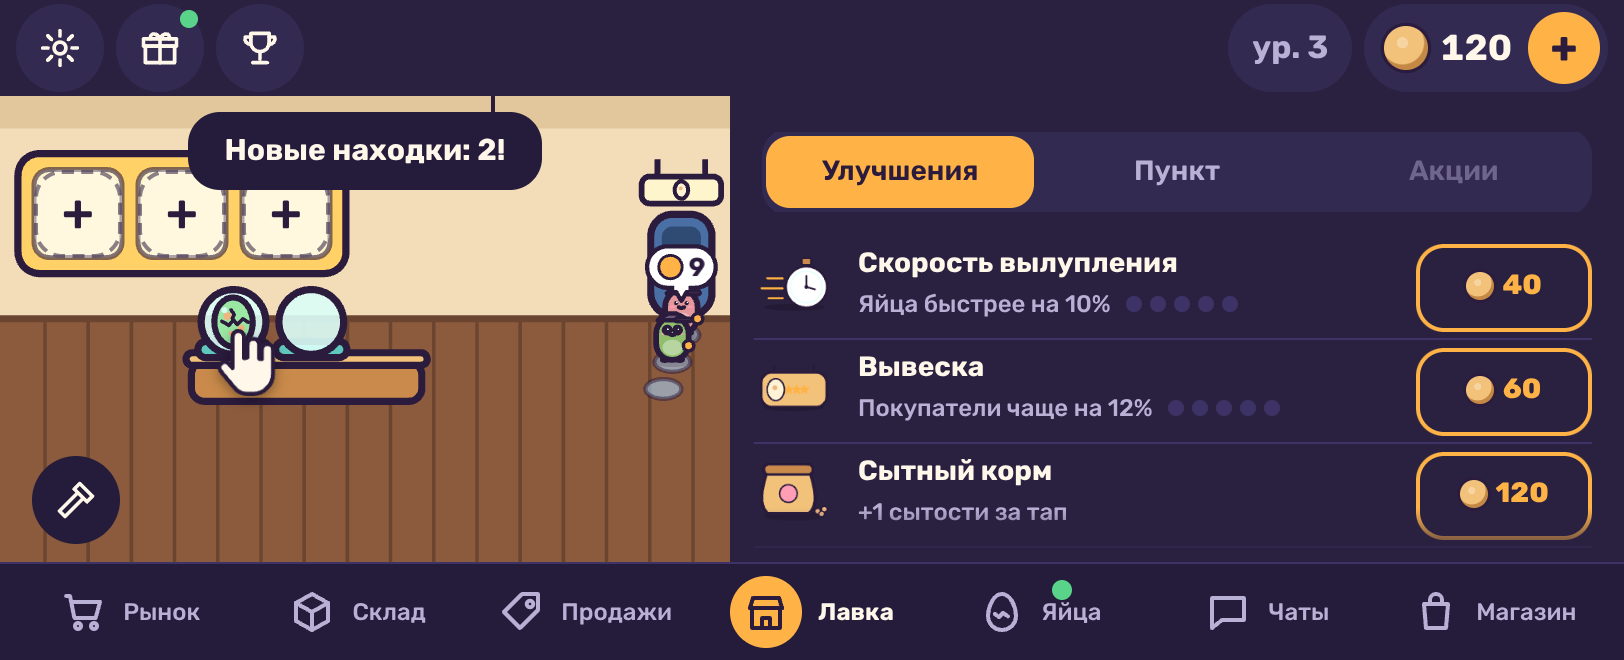
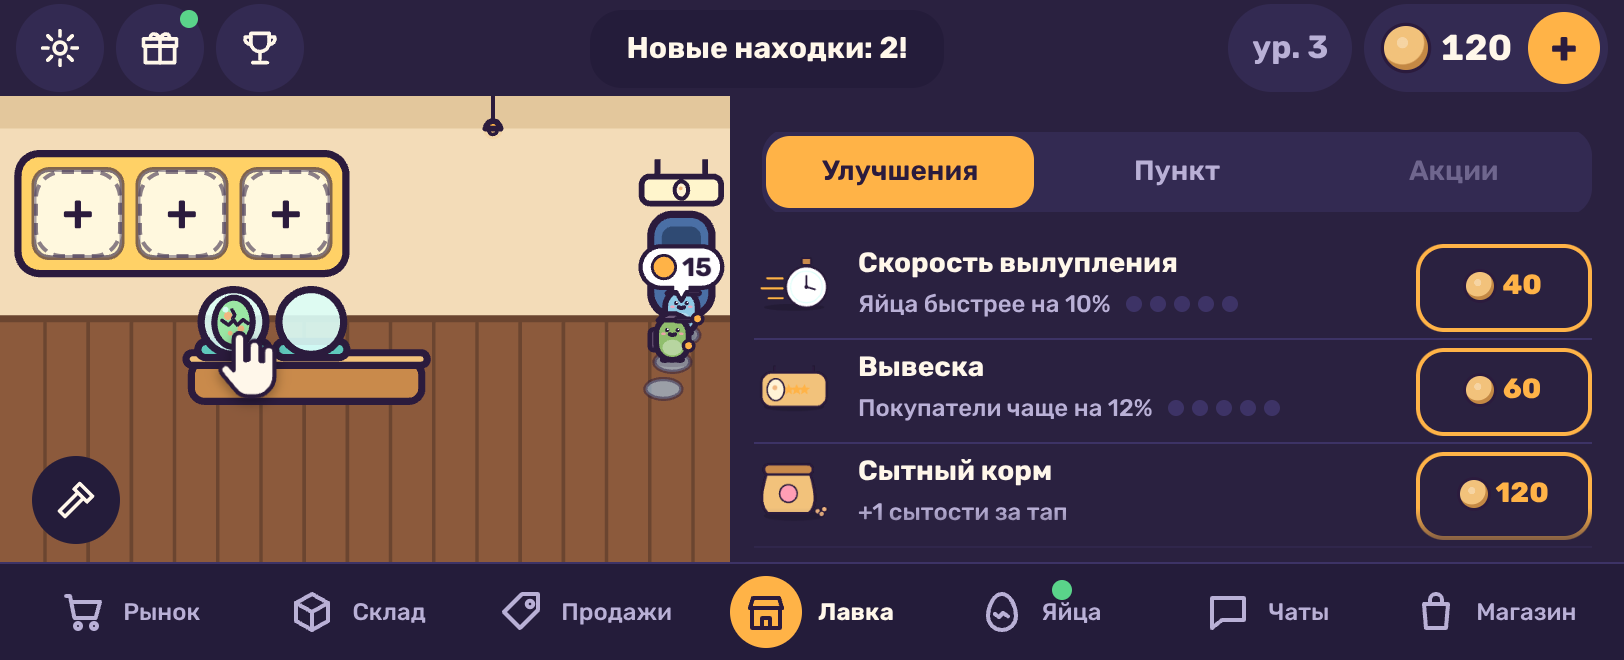
Круг правок FB-2, ревизоры: тост не ложится на полку в комнате (свободная середина шапки), отчёты арта и сверки с макетом, 07 и README макетов поправлены
Claude-Session: https://claude.ai/code/session_01Uv5yLXx9dk6Zwwdwi2eiZ1

diff --git a/src/ui/toast.ts b/src/ui/toast.ts
@@ -47,19 +47,30 @@ const meets = (a: DOMRect, top: number, bottom: number, r: DOMRect): boolean =>
 
 /** Moves the toasts' column off whatever of AVOID its toast would lie on (07 rule 17: under the bar, but not over a title): into the free
  *  middle of the bar when it fits there (sideways), else down past it. */
-function place(el: HTMLElement): void {
+function place(el: HTMLElement, extra: () => DOMRect[]): void {
   const root = el.parentElement;
   if (!root) return;
   root.style.removeProperty('transform');
   const box = el.getBoundingClientRect();
-  const avoid = (): DOMRect[] => [...document.querySelectorAll(AVOID)].map((e) => e.getBoundingClientRect());
+  const avoid = (): DOMRect[] => [...[...document.querySelectorAll(AVOID)].map((e) => e.getBoundingClientRect()), ...extra()];
   if (!avoid().some((r) => meets(box, box.top, box.bottom, r))) return;
   const hud = document.querySelector('.hud')?.getBoundingClientRect();
   if (hud && box.height <= hud.height) {
-    const top = hud.top + (hud.height - box.height) / 2;
-    const busy = [...document.querySelectorAll('.hud button')].some((e) => meets(box, top, top + box.height, e.getBoundingClientRect()));
-    if (!busy) {
-      root.style.transform = `translateY(${Math.round(top - box.top)}px)`;
+    // The widest free stretch of the bar between its buttons: the toast stands in its middle when it fits there.
+    const edges = [...document.querySelectorAll('.hud button')]
+      .map((e) => e.getBoundingClientRect())
+      .filter((r) => r.width > 0)
+      .sort((a, b) => a.left - b.left);
+    let from = hud.left;
+    let best = { left: 0, width: 0 };
+    for (const r of [...edges, new DOMRect(hud.right, hud.top, 0, hud.height)]) {
+      if (r.left - from > best.width) best = { left: from, width: r.left - from };
+      from = Math.max(from, r.right);
+    }
+    if (best.width >= box.width + 16) {
+      const top = hud.top + (hud.height - box.height) / 2;
+      const left = best.left + (best.width - box.width) / 2;
+      root.style.transform = `translate(${Math.round(left - box.left)}px, ${Math.round(top - box.top)}px)`;
       return;
     }
   }
@@ -74,7 +85,8 @@ function place(el: HTMLElement): void {
   if (shift > 0) root.style.transform = `translateY(${Math.round(shift)}px)`;
 }
 
-export function createToasts(parent: HTMLElement): Toasts {
+/** extra — rects of the scene a toast never covers either (the shelf frame drawn in the canvas: круг правок FB-2, арт-ревизия). */
+export function createToasts(parent: HTMLElement, extra: () => DOMRect[] = () => []): Toasts {
   const root = document.createElement('div');
   root.className = 'toasts';
   root.setAttribute('aria-live', 'polite');
@@ -101,9 +113,9 @@ export function createToasts(parent: HTMLElement): Toasts {
     el.dataset.text = item.text;
     root.appendChild(el);
     current = el;
-    place(el);
+    place(el, extra);
     // A screen that opens under a toast already shown (a lot, a hint) moves it too.
-    const follow = window.setInterval(() => (current === el ? place(el) : window.clearInterval(follow)), 250);
+    const follow = window.setInterval(() => (current === el ? place(el, extra) : window.clearInterval(follow)), 250);
     // The round of fixes (the usability review): a toast never moves the screen under a finger — it lies over the top
     // of the screen for a moment and lets every tap through (pointer-events: none), 07 rule 17.
     window.setTimeout(() => {

diff --git a/src/main.ts b/src/main.ts
@@ -651,7 +651,15 @@ async function boot(): Promise<void> {
   };
   syncDay();
   window.setInterval(syncDay, 60_000);
-  const toasts = createToasts(uiRoot);
+  // Круг правок FB-2 (арт-ревизия): on «Лавка» a toast never lies on the shelf frame drawn in the scene (its places, 12 px around).
+  const toasts = createToasts(uiRoot, () => {
+    const slots = nav.active() === 'home' ? (shop.anchors()?.slots ?? []) : [];
+    if (!slots.length) return [];
+    const c = canvas.getBoundingClientRect();
+    const x = Math.min(...slots.map((r) => r.x)) - 12 + c.left;
+    const y = Math.min(...slots.map((r) => r.y)) - 12 + c.top;
+    return [new DOMRect(x, y, Math.max(...slots.map((r) => r.x + r.w)) + 12 + c.left - x, Math.max(...slots.map((r) => r.y + r.h)) + 12 + c.top - y)];
+  });
   const merchantWindow = createMerchantWindow(uiRoot, play, {
     t: i18n.t,
     lang: i18n.lang,

diff --git a/docs/evidence/FB/fixes2-art.md b/docs/evidence/FB/fixes2-art.md
@@ -1,0 +1,62 @@
+# FB, круг правок 2: арт-ревизия (19.10)
+
+Кадры `screens/` (×2), `screens/130/` (×1), салют `salute-{vip,exclusive}-{0,150,300}ms.{p,l}`, ПК `home.pc` (1280×720); макеты s6, r1, s7; замеры PIL. Координаты — CSS px (x0–x1, y0–y1). Кроп к «2» — `art-fixes2/`.
+
+| # | Пункт | Балл | Почему |
+|---|---|---|---|
+| 1 | Цельность стиля | 3 | Строка улучшения одна и та же в «Лавке», «Магазине», боком и на ПК: 68 px, боком 52, цена-обводка. Но полка — всё тот же жёлтый лоток `#ffd166`, по цвету почти как VIP `#ffd84d`. Золото VIP в салюте выходит грязным хаки: средний цвет карточки `#a0895e` (насыщенность 0,26) на 0 мс и `#6e584d` (0,18) на 300 мс. Причина: `screen` жёлтым по фиолетовому `#241c3a` даёт серое. У эксклюзива та же схема даёт чистый малиновый (0,38 → 0,29) |
+| 2 | Иерархия | 4 | При полной витрине главная — «На склад» (full-shelf-result.p 36–339, 419–465; .l 411–684, 223–269). «Продать сразу» стоит тихой строкой. Мелочи. Цена не по карману `#b9b0d6` даёт 7,4:1, по карману `#ffb347` — 8,5:1: разница только в оттенке и обводке, «нельзя» почти так же громко, как «можно» (shop.p 292–338, 345–372). Лот боком: питомец — плитка 40 px (lot.l 356–396, 50–90), а это товар; главная 397–754 уже ответов 356–796 (так по правилу 360 px, но ряд выглядит невыровненным) |
+| 3 | Типографика | 3 | Число после монеты в мете лота на 5 px выше слов: «19» по высоте 158–166, «ниже рынка» 163–171 (lot.p 190–203); «23» 75–83 против 80–88 (lot.l). У «VIP» с обводкой 5 px под «V» торчит острый шип (салют, .p ≈179–181, 287–292): `-webkit-text-stroke` рисует углы острыми. При 130 % у «Улучшения» поля 7 и 3 px внутри плашки (130/shop.p 20–128, 76–92). «12%» по-прежнему висит один на строке (130/shop.p 68–100, 255–268) |
+| 4 | Иконки | 3 | Прошлые «2» сделаны: секундомер, залитые точки, монета в наградах. По правилу «84 % от 40 px» (≈34 px по большей стороне) выпадает «Колокольчик»: 22×23 (shop.p 24–47, 349–372). Плоские значки остаются тонкими полосками: «Коврик» 32×10 (20–52, 420–430), «Вывеска» 32×16. По площади рисунка значки отличаются вдвое: 311 против 632 px². Точки уровня «0 из 5» — `#3d3366` на `#2a2140`, 1,34:1, почти не видны (home.p 68–124, 404–413). В «Пункте» один и тот же ящик у «Аренды пункта» (point.p 20–52, 244–270) и «Второй точки» (20–52, 516–542). Овал на вывеске двери до сих пор читается как «0» |
+| 5 | Редкость | 4 | Слово редкости проходит на всех кадрах: заливка к своей обводке 2,5 px даёт 11,4:1 у VIP и 5,17:1 у эксклюзива (таблица ниже). Вспышка лежит под словами, тёмной плашки под кнопками нет. «Чем круче, тем ярче» выполнено: эксклюзив на каждом кадре светлее и насыщеннее VIP (0,52 против 0,50 по светлоте, 0,38 против 0,26 по насыщенности) и дольше (1 с против 0,8 с). Минус: конфетти экрана летит поверх слов. salute-exclusive-0ms.p 130–250, 270–330 — точки на «ЭКСКЛЮЗИВ» и «Луна-пончик»; .l 355–480, 75–200 — на имени, цене и «Продать сразу». Минус: VIP-хаки (п. 1) |
+| 6 | Окна | 3 | Питомец в «Вылупился!» на месте: 58–73 % высоты плитки (hatch.p 58 %, hatch-vip.p 73 %, hatch.l 54 %, full-shelf-result.p 59 %). «Продать сразу» боком под ценой (hatch.l 280–456, 170–188), в 24 px над кнопками. Но боком у карточки снизу 4 px поля при 20 px по бокам: кнопки до 268,5, рамка с 273 (hatch-vip.l). При 130 % рамка кончается в 3 px над полосой вкладок (130/hatch-vip.l: рамка 276–278, полоса с 281). Портрет: от «На склад» (низ 464,5) до текста «Продать сразу» (505,5) 41 px. Строка оторвана от кнопок и прижата к низу карточки (в s6 тихая строка ближе). На кадре 0 мс кнопки ещё заблокированы (`opacity .5`) и тонут во вспышке: «На витрину» к карточке 1,17:1, подпись 2,17:1 (salute-vip-0ms.p 36–339, 365–411); «Продать сразу» боком 1,03:1 (salute-vip-0ms.l 280–468, 172–186). К 150 мс всё в норме |
+| 7 | Сцена «Лавки» | **2** | Боком тост лежит на полке, и это с прошлой ревизии. «Новые находки: 2!» (toast.l 94–271, 56–95) закрывает верх рамки и мест 2–3 (рамка 7–175, 76–138, перекрытие 19 px). «Витрина полна, питомец на складе» (full-shelf.l 30–335, 56–95) закрывает макушки всех трёх питомцев — ровно ту витрину, о которой говорит. Портретом тост кончается на 95, рамка полки начинается на 96: зазор 0 px (toast.p). Полка — по-прежнему лоток `#ffd166` |
+
+Средний балл: **3,1** (было 2,7). Прошлые «2» по иконкам и окнам исправлены. Из прошлой «2» по сцене исправлены полка на инкубаторах (боком зазор 4,5 px, home.l 115–165, 138,5–143; был 0) и подсказка на «+» (hint.p: пузырь 83–207, рамка полки до 73). Тост над полкой боком остался.
+
+## Салют: контраст слова редкости (заливка, обводка, фон рядом)
+
+| Кадр | Заливка / обводка | Обводка / вспышка | Заливка / вспышка (без обводки) |
+|---|---|---|---|
+| VIP 0 мс, портрет / боком | 11,4 / 11,4 | 8,7 / 7,1 | 1,3 / 1,6 |
+| VIP 150 мс | 11,4 / 11,4 | 5,0 / 4,3 | 2,3 / 2,7 |
+| VIP 300 мс | 11,4 / 11,4 | 2,8 / 2,6 | 4,0 / 4,5 |
+| Эксклюзив 0 мс | 5,17 / 5,17 | 6,2 / 5,1 | 1,2 / 1,0 |
+| Эксклюзив 150 мс | 5,17 / 5,17 | 4,3 / 3,6 | 1,2 / 1,5 |
+| Эксклюзив 300 мс | 5,17 / 5,17 | 3,0 / 2,4 | 1,8 / 2,1 |
+| После салюта (hatch-vip.p / hatch-exclusive.p) | 11,7 / 5,25 | — | 11,7 / 5,27 |
+
+Буквы читаются по своей обводке, она сплошная, ≥ 2,5 px: ≥ 4,5:1 на 0, 150 и 300 мс в обеих ориентациях. Без обводки слово на пике вспышки не читалось бы (1,0–1,3:1), так что обводку не убирать.
+
+## «2»: сцена «Лавки» — тост на полке боком
+- **Где.** toast.l: тост 94–271 × 56–95, рамка полки 7–175 × 76–138. Тост закрывает верхнюю кромку и верх мест 2–3. full-shelf.l: тост 30–335 × 56–95 закрывает макушки питомцев (уши кота, усики пчелы) и вывеску над дверью. При этом свободна середина шапки: между кнопками слева (до 152) и «ур. 3» справа (с 614) 462 px, а самый длинный тост — 305 px. Портретом зазор тоста и полки 0 px (toast.p, тост до 95, рамка с 96).
+- **Почему не сработала правка п. 6.** `src/ui/toast.ts`, `AVOID` перечисляет только DOM («‹», подсказку). Полка рисуется в PixiJS, её в списке нет, поэтому `place()` не видит перекрытия.
+- **Как исправить.**
+  - В `src/ui/toast.ts` передать в `createToasts` геттер `anchors` (как `deps.anchors()` в `src/ui/hints.ts:84`). В `place()` добавить к `avoid()` рамку полки, по образцу `hints.ts:206–212`: места `a.slots` + 12 px, со сдвигом `canvas.left/top`. Дальше всё сделает уже существующая ветка: тост, который встречает препятствие, встаёт в свободную середину шапки (`hud.top + (hud.height − box.height)/2`, если там нет кнопок). Боком так и выйдет: 39 px тоста помещаются в 48 px шапки.
+  - Портретом середина шапки занята («ур. 3»). Там достаточно, чтобы ветка «вниз» не срабатывала на 1 px. Либо поднять тост: `.portrait .toasts { top: calc(var(--hud-height, 48px) + 4px) }` даёт 4 px до рамки.
+  - Быстрая замена только CSS, хуже: `.landscape #ui:has(> .sheet[data-sheet='home']:not([hidden])) > .toasts { top: calc(var(--safe-top, 0px) + 4px); left: 160px; width: calc(100% - 366px); }` в `src/ui/mu.css`, после правила MU-12 (стр. 2282). Здесь числа зашиты по кнопкам шапки, поэтому лучше вариант на JS.
+- **Попутно** (данные, не `src`): полку перекрасить в дерево. `content/style.json` `colors.showcase` `#ffd166` → `#a86b45`, `showcaseSlot` `#fff5cc` → `#fff3d6`. Так уйдёт и путаница с VIP `#ffd84d`, которую салют VIP только подчёркивает.
+- Кроп: `art-fixes2/scene-toast-over-shelf.png` (home.l без тоста, toast.l, full-shelf.l; красная рамка — перекрытие).
+
+## «3»: что поправить следом (по пунктам)
+- **Цельность / редкость, VIP-хаки.** `src/ui/mu.css`, `.card.hatch-rare[data-rarity='vip']::before { mix-blend-mode: normal; }`: при пике 0,8 выйдет ≈ `#d3b24a`, горчично-золотой, а не `#a0895e`. Края градиента — `transparent`, а не `--rc 35 %`. Слова лежат выше (z 1), пелены не будет.
+- **Редкость, конфетти на словах.** `.burst` экрана опустить под окна, как вспышку: `#ui .burst { z-index: 29 }`. Своё конфетти у карточки уже есть в плитке питомца (salute-vip-0ms.p 124–252, 141–253) — его хватит.
+- **Типографика, монета в мете.** `.mu-money` — `inline-flex` с `align-items: center`, и базовая линия считается по низу монеты. Правка: `.mu-meta .mu-money { vertical-align: middle; }` или `.mu-money { align-items: baseline } .mu-money > .coin { align-self: center }`. Проверить «рынок ◉ N» в лоте, «цена ◉ N» в «Вылупился!».
+- **Типографика, шип у «VIP».** Вместо `-webkit-text-stroke: 5px` у `.card.hatch-rare .rar-word` — восемь `text-shadow` по 2,5 px, круглые углы. Либо `-webkit-text-stroke: 4px` и `letter-spacing: .04em`.
+- **Иконки.** В `src/scene/icons.ts` вписать колокольчик в 34 px по высоте. «Коврику» и «Вывеске» дать вид в ¾: коврик свёрнутым рулоном, вывеску на подвесе, чтобы высота была ≥ 22 px. Пустые точки уровня — `color-mix(in srgb, var(--c-uiMuted) 35%, transparent)`, ≈ 2:1. «Второй точке» дать свою картинку: два домика или ящик с флажком.
+- **Окна.** Боком у «Вылупился!» снизу ≥ 12 px поля: `.landscape #ui .overlay > .card.card-hatch { padding-bottom: 12px }`. Место взять у ряда «Продать сразу» (`min-height` 40 → 36) и у `margin-top` кнопок (24 → 20, правило 2 допускает ≥ 16 у нетревожной строки), иначе при 130 % не влезет. Портрет: `margin-top` у `.hatch-sell` 24 → 12, видимый зазор станет ≈ 29 px.
+- **Иерархия.** Цена не по карману — `color-mix(in srgb, var(--c-uiMuted) 70%, var(--c-uiBg))`, ≈ 4,6:1. Тогда «можно» (8,5:1, обводка) сразу отличается от «нельзя». Лот боком: `.landscape [data-detail='lot'] .lot-pet .mu-pic` — 56 px, картинка 48.
+- **ПК.** Строки улучшений тянутся на 680 px, и между текстом (до ≈880) и ценой (1176–1264) пусто 300 px (home.pc). Тут нужно `max-width: 560px` у списка или цена ближе к тексту.
+
+## Что исправлено с прошлой ревизии
+- Лот боком: реплики слева целиком, питомец справа сверху над ответами, «Заберу сейчас» целиком при 100 % и 130 %. Лот портретом при 130 %: приветствие и «Отдам за 341» целиком, ответы над полосой с запасом 16 px.
+- Салют: вспышка под словами, без тёмной подложки кнопок, слово ступени в обводке (≥ 4,5:1 на всех трёх кадрах), эксклюзив ярче и дольше VIP.
+- «Продать сразу»: портретом — тихая строка под «На склад», боком — под ценой, не в углу ✕. При полной витрине главная — «На склад».
+- Низ «Лавки» и «Магазина»: цена по карману — акцент 8,5:1 к фону `#2a2140`; строки 68 px (боком 52) с точками и без; значки 32–33 px по ширине. Исключение — колокольчик.
+- «Окно офлайна» боком, секундомер, монеты в наградах, вспышка под текстом, подсказка правее полки, полка не лежит на инкубаторах — из прошлых «2».
+- Не исправлено: тост на полке боком, полка-лоток ≈ VIP, «0» на двери, «12%» на своей строке при 130 %.
+
+## 3 правки по важности
+1. **Тост не ложится на полку.** Рамку полки добавить в `AVOID` тоста (`src/ui/toast.ts`); боком тост уйдёт в свободную середину шапки.
+2. **Салют VIP — золото, а не хаки, и конфетти не по словам.** `mix-blend-mode: normal` у вспышки VIP, `#ui .burst { z-index: 29 }`.
+3. **Мелкая типографика и значки.** Число после монеты на одной линии со словами (`.mu-meta .mu-money`). Колокольчик в 34 px, «Коврик» и «Вывеска» не полосками. Точки уровня видимые (≈ 2:1). Полку перекрасить в дерево (`content/style.json`).

diff --git a/docs/evidence/FB/mockup-check-2.md b/docs/evidence/FB/mockup-check-2.md
@@ -1,0 +1,75 @@
+# Сверка с макетом — FB, круг правок 2 (19.10)
+
+Метод тот же, что в `mockup-check.md`. Кадры `screens/*.png` (×2) и `screens/130/*.png` (×1) приведены к CSS px и сложены с `docs/mockups/*.png` (портрет ×1,6, альбом ×0,888). Края элементов найдены сканом пикселей PIL. Числа даны как «сборка / макет» в CSS px, % — доля высоты экрана (650 или 330). Допуск: ±5 % по положению, ±2 px по размерам кнопок. Отходы, записанные в 07 («Сверка с макетами», «Раскладка «Лавки»», «Вылупление», правило 17), помечены «по 07». Кадры сняты на `4b77d95`. `price.p`, `sales.p`, `collection.p` и `egg-card` при пересъёмке не изменились (байты те же), поэтому их числа совпадают с прошлым отчётом.
+
+## 1. Пары
+| Экран | Итог | Что с числами | Важность |
+|---|---|---|---|
+| hatch-vip.p ↔ s6-hatch-result | совп. | «На витрину» 365–411 / 365–409, «На склад» 421–465 / 420–464, «Продать сразу» тихой строкой 504–519 / 503–518 (до «На склад» 24 px по тап-зоне, как в s6). Ширина кнопок 303 / 303. Окно 75–553 / 100–550 (верх −3,8 %). Плитка 128×110 / 128×≈100. Питомец 84 px из 110 (76 %) / 66 из 102 (65 %) — по 07 | — |
+| hatch-exclusive.p ↔ r1-hatch-exclusive | совп. | те же края (365–411, 421–465, 504–519), рамка и свечение как в макете; питомец 78 из 112 (70 %) | — |
+| hatch.p ↔ r2-hatch-common | совп. | кнопки 305 / 307 (±2), 364–410, 420–464, 503–518; ободок 1 px, серое слово; питомец 66 из 112 (59 %) | — |
+| full-shelf-result.p ↔ s6 (состояние) | по 07 | при полной витрине главная — «На склад» (419–465), «На витрину» тёмная (365–409) | — |
+| hatch\*.l, full-shelf-result.l (макета нет) | по 07 | «список + деталь»: плитка 132×94–96, питомец 57–70 px (61–74 %). «Продать сразу» под ценой (текст 170–186), а не в углу ✕. Кнопки 222–268, от тап-зоны строки до них 22 px (в 07 сказано 24, разница в пределах ±2). При 130 %: текст 170–195, кнопки 226–272, окно целиком помещается в 330 | — |
+| home.p ↔ s1-shop-scene | по 07 | комната 48–287, кнопка-цена 88×44 (371–415, 439–483, 507–551). Строки ровно по 68 px (линии 426, 494, 562), с точками и без. Иконки 31–32 px по контуру (84 % от 40 = 33,6) | — |
+| home.l ↔ l1-home-landscape | по 07 | комната 0–365 (45 %), кнопки-цены 122–166, 174–218, 226–270 — шаг 52, как в 07 | — |
+| home.pc (ПК 1280×720) | по 07 | правая половина не пустая: под улучшениями «Мои яйца» и яйца строками, строки по 52 | — |
+| shop.p ↔ s7-shop | расх. | строки 68 (линии 325, 393, 461, 529), цена-кнопка 88×44 есть только у доступных строк, и это по 07. Но последняя строка «Витрина» (530–598) уходит под полосу всего на 4 px, а `peek` прячет её имя целиком, хотя оно (539–556) видно полностью. На первом экране «Магазина» получается строка из одной иконки. То же при 130 % | заметно |
+| eggs.p ↔ s1-eggs-list | совп. | главная 219–265 / 224–268, 2-й ряд ≈318 / 314 | — |
+| chats.p ↔ s2-chat-list | совп. | строки 60 (84–144, 154–214) | — |
+| chat.p ↔ s2-chat-dialog | расх. | «Продать за» 434–480 / 429–474, «Отказаться» 490–534 / 483–526 — в допуске. Не исправлено с прошлого круга: аватар 44 / 36, чип цены шире | мелочь |
+| sales.p ↔ s3-sales-slots | совп. | без изменений | — |
+| sales-chat.p ↔ s3 (в переписке) | расх. | «В чат» теперь на первом экране: раздел «В переписке» сверху, карточки 90–278, главная 229–275. Прошлое «заметно» снято. В s3 этот питомец стоит в сетке мест (297–496), а отдельный раздел в 07 не записан | мелочь |
+| price.p ↔ s3-price | расх. | кадр не менялся: подписи зон 309 / 268 (+6,3 %), подсказка 334 / 296 (+5,9 %), ручка 276 / 247 (+4,5 %) | заметно |
+| inventory.p ↔ s4-inventory | совп. | карточки 126–336 / 121–325, 2-й ряд 357 / 348 (+1,4 %) | — |
+| finds.p ↔ s4-finds | расх. | карточка 158–326 / 144–292: выше на 20 px, низ +5,2 %. 2-й ряд 342 / 316 (+4 %). Зелёная заливка одна, у второй готовой находки «Забрать» зелёным текстом — по 07 | мелочь |
+| market.p ↔ s8-market | совп. | 88–296, 316–543 / 92–294, 321–513: низ 2-го ряда +4,6 %, потому что двухстрочное имя | — |
+| gifts.p ↔ s5-gifts | расх. | «Забрать подарок дня» 400–444 / 394–438 (+1 %). Карточка «Аномалия дня» в рамке VIP 484–559 / 446–532 (низ +4,2 %). «Забрать яйцо» по-прежнему узкая и в две строки, в макете одна | мелочь |
+| pause.p ↔ s6-pause | расх. | без изменений: кнопки 301 / 308, лишний разделитель на 357, окно 170–456 / 202–447 | мелочь |
+| chat.l, chats.l ↔ l2-chat-landscape | расх. | строки списка 52 и ≈45 / 53 и 50 — совпадают. Кнопки 272 + 210 / 282 + 209: стало ближе (было 253), но «Продать за» на −10 px. Пузыри 117–150, 165–200 / 97–132, 140–175 — ниже на 20–25 px (6,1–7,6 %): шапка диалога по-прежнему в две строки («хочет: …») | заметно |
+| inventory.l ↔ l3-inventory-landscape | совп. | строки 2 колонки, сегменты 44 по правилу 4, без изменений | — |
+| inventory.p, pick.p ↔ r0-rarity-ladder | совп. | ступени рамок и свечений как в r0, ничего не срезано краем | — |
+| hint.p ↔ подсказка s1 | совп. | пузырь «Тапни яйцо» 72–180 × 108–140 стоит правее полки (рамка 9–63): перекрытия нет, при 130 % тоже. Прошлое «заметно» снято | — |
+| lot.p (макета нет) | по 07 | главная «Заберу сейчас» 16–359 × 368–414. При 130 % приветствие и «Отдам за 341» видны целиком, ответы 2 + 1 + 1 | — |
+| lot.l (макета нет) | по 07 | правая колонка 356–796 = 440, главная 396–756 = 360 и целиком (112–158), от шапки 64 px. При 130 % строка питомца в две строки, до главной 4 px; это не цель нажатия | — |
+| point.p / point.l (закрыт) | по 07 | строка «Здесь появится…», «Откроется с уровня 5», шаги пункта приглушены, цен нет. При 130 % тоже | — |
+| toast.p / toast.l | расх. | портрет: тост 60–92 под шапкой, до полки (100) свободно. Боком тост 57–94 (при 130 % 56–100) налезает на рамку полки 78–135 и верх мест «+» на 16–22 px. Правило 17 его не уводит: в `AVOID` есть только «‹» и подсказка. Это нарушает правило 3, хотя тост живёт 2 с и не ловит тапы | мелочь |
+| salute-vip/exclusive-0/150/300ms | расх. | вспышка под словами, слово ступени в обводке, у кнопок нет пелены, кнопки заблокированы на 0 мс — по 07. Но на 0 мс искры (canvas `.burst`, z 60, над окном) ложатся на «ЭКСКЛЮЗИВ», имя, а боком — на цену и «Продать сразу». На 150 мс боком искры идут по «На склад». В 07 сказано: вспышка под словами | мелочь |
+
+## 2. 130 %
+- Окно «Вылупился!» в портрете и боком, лот, «Пункт», «Лавка», «Магазин» целые, разрывов посреди слова нет.
+- away.l: прошлое «критично» снято. Окно в две колонки, «Отлично» видна целиком: 198–244 при 100 %, целая и при 130 %.
+- Пустые карточки второго ряда (inventory, market, collection, eggs, «Лавка», «Магазин») — не артефакт съёмки. Так задумано в FB-14 (`src/ui/peek.ts`): у карточки, которую режет низ экрана, видна только картинка. В 07 это не записано.
+- gifts.l: «Забрать подарок дня» при 100 % стоит на 216–260 (в затухание 6 px). При 130 % она на 236–≈280, и нижние ≈26 px в затухании над полосой (затухание с 254). Не исправлено — заметно.
+- gifts.p при 130 %: имя «Грибочек-зонтик» в «Аномалии дня» уходит под затухание. Список прокручивается, поэтому мелочь.
+- 130/home.pc не увеличен: шрифт тот же, что на 100 %. `scripts/mu-shots.mjs` (снимок ПК, ≈стр. 259) пропускает шаг 130 % из `shot()`. Это мелочь доказательств.
+
+## 3. 07 сам с собой и со сборкой
+- Карточка «Дальше»: противоречий нет. «Сверка» (портрет и альбом) и «Раскладка «Лавки»» обе говорят, что карточка есть только при выключенном `homeShop`. В сборке её нет.
+- Высота строки: в 07 одно значение — 68 px, боком 52. В CSS так же (`mu.css`, `.mu-card.shop-item` 68 / 52), в кадрах тоже (шаг 68 в портрете, 52 боком). Строки на ПК тоже по 52, но в 07 ПК не назван. Мелочь.
+- Место «Продать сразу»: «Раскладка» (под «На склад» в 24 px, боком под ценой), «Редкость» (обычный текст `#b9b0d6`) и сборка совпадают. Два расхождения:
+  - «Знаки» (стр. 10): «исключение — «Продать за N» в чате и окне вылупления». В окне на деле «Продать сразу за N».
+  - README макетов, s6: «через 14 px». В макете и в 07 — 24 px от «На склад» до тап-зоны строки (текст в 39 px).
+- Размер питомца: одно утверждение — ~60 % высоты, 122 px в плитке 128×112, боком 102 в 132×96. В CSS так же (`.overlay .card-hatch .hatch-pic img` 122 / 102). Видимая часть рисунка в кадрах — 59–76 % (портрет) и 61–74 % (боком). Совпадает.
+- Не записано в 07, хотя есть в сборке: `peek` (FB-14) и раздел «В переписке» над местами «Продаж».
+
+## 4. Итог
+29 строк: 11 совпадают, 8 по 07, 10 расходятся (3 заметно, 7 мелочь). Ещё одно «заметно» в разделе 130 % (gifts.l). Критичного нет.
+
+Снято с прошлого круга: away.l (критично), hint.p, «В чат» в sales-chat.p, кнопки «Вылупился!». Также 07 и сборка совпадают по «Продать сразу», размеру питомца, высоте строк и карточке «Дальше».
+
+Критично: нет.
+
+Заметно:
+- shop.p: строка «Витрина» без имени. Правка в `src/ui/peek.ts`: прятать текст, только если он сам режется краем (`.mu-name`/`.mu-line`/`.mu-btn` ниже `bottom`), а не вся карточка, или дать запас 8 px (`r.bottom > bottom + 8`).
+- price.p: подписи зон и подсказка ниже на 6,3 и 5,9 %. Правка: `src/ui/mu.css`, раздел «Цена» — уменьшить отступы блока питомца, крупной цены и трека примерно на 30 px (плитку 69 → 56, как в s3).
+- chat.l: пузыри ниже на 6,1–7,6 %, кнопки 272 / 282. Правка: `src/ui/mu.css`, шапка диалога боком (`.landscape` диалог чата) — «хочет: …» в одну строку с именем, аватар 28; главной `flex` примерно 282.
+- gifts.l при 130 %: «Забрать подарок дня» на ≈26 px в затухании. Правка: `src/ui/mu.css`, блок «Подарки» боком (≈стр. 3627) — плитки дней ниже по высоте при 130 % или кнопку в правую колонку.
+
+Мелочь (кратко):
+- toast.l: добавить полку в `AVOID` в `src/ui/toast.ts` (или боком всегда в середину шапки).
+- искры салюта: `.burst` z-index ниже карточки окна (`src/ui/mu.css:2993`) или не сыпать на текст.
+- 07, стр. 10: «Продать сразу за N» в окне вылупления.
+- README s6: 14 → 24 px.
+- 07: дописать ПК 52, `peek` и раздел «В переписке».
+- Без изменений с прошлого круга: pause (301 / 308, разделитель), chat.p (аватар 44 / 36), gifts.p («Забрать яйцо» в две строки), finds.p (карточка выше на 20).
+- `mu-shots.mjs`: шаг 130 % для home.pc.

diff --git a/docs/07-mobile-ui.md b/docs/07-mobile-ui.md
@@ -7,7 +7,7 @@
 - Размеры: шапка 48 px, элементы шапки 44 px (как тап-зона); полоса вкладок 56 px (альбом 48), иконка 24, подпись 12 px под каждой вкладкой (у кнопки вкладки то же доступное имя); кнопки `min-height` 44 px (главная 46), текст кнопок 14 px (главная 15), поля в кнопке ≥ 12 px по бокам; названия 14, подписи 12, числа HUD ≥ 16; поля экрана 16, сетка 8, скругления 14 (кнопки, карточки) и 22 (окна).
 - Шкала шрифтов (по макетам): заголовок экрана и окна 18/800; имя питомца в окне «Вылупился!», на «Цене» и в лоте 18/800; крупная цена 32/800; подпись раздела 12,5/700 заглавными; название в карточке 14/700; подпись 12; слово редкости в «Вылупился!» 15/700. Переменные `--mu-fs-*` в `src/ui/mu.css`.
 - Цвета: фон `#2a2140`, панели `#241c3a` / `#332a52` / `#3d3366`, текст `#fff7ea`, приглушённый `#b9b0d6`, главная кнопка `#ffb347` с текстом `#2b1b3d`, зелёный `#5ad38a` — получить, красный `#ff6b6b` — необратимо. Контраст текста ≥ 4,5:1.
-- Знаки: монета — одна иконка-картинка (SVG из сцены, не символ шрифта: системные символы на Android и iOS рисуются по-разному) везде, где есть цена, награда или баланс, включая реплики чата и крупную цену; кристалл — вторая иконка; редкость — словом и цветом, не значком. В кнопке — только глагол («Покормить», «Забрать», «На продажу»), цена — строкой меты рядом; исключение — «Продать за N» в чате и окне вылупления. Уровень продавца в шапке — «ур. N» текстом, не значком, чтобы не читался как валюта.
+- Знаки: монета — одна иконка-картинка (SVG из сцены, не символ шрифта: системные символы на Android и iOS рисуются по-разному) везде, где есть цена, награда или баланс, включая реплики чата и крупную цену; кристалл — вторая иконка; редкость — словом и цветом, не значком. В кнопке — только глагол («Покормить», «Забрать», «На продажу»), цена — строкой меты рядом; исключение — «Продать за N» в чате и «Продать сразу за N» в окне вылупления. Уровень продавца в шапке — «ур. N» текстом, не значком, чтобы не читался как валюта.
 
 ## Словарь (одно место — одно имя, портрет, альбом и ПК одинаково)
 Вкладки: Рынок · Склад · Продажи · **Лавка** (центр, сцена) · Яйца · Чаты · Магазин. Склад: Питомцы · Коллекция · Находки. Магазин: Улучшения · Пункт продаж · Акции (с вехи рекламы); в сегменте — коротко «Пункт», в заголовке раздела и названиях — «Пункт продаж», «пункт» (Q-033 A; «ПВЗ» не пишем). Места продажи — «Витрина», действия — «На витрину», «Снять с витрины», «На склад»; питомец в переписке — главная «В чат». Окна: «Вылупился!», «Пауза», «Настройки», «Подарки», «Лидеры», «Уровень продавца», «Переезд» (окно, кнопка в «Уровне продавца» и цель «Дальше»; не «Новый город»), «Подработка», «Оцени игру». Награда за сообщество — за визит в группу по кнопке («Загляни в группу»); слов «подпишись», «за подписку» в интерфейсе и текстах нет. Награда за отзыв — «Сундук за отзыв» (карточка в «Подарках», окно «Оцени игру», картинка — сундук; не «Золотое яйцо»).
@@ -29,7 +29,7 @@
 14. **Один словарь** (выше).
 15. **Содержимое выше кнопок:** в диалоге видно сообщение, в списке — два ряда карточек; отступ контента снизу = высота полосы.
 16. **Подсказка обучения** — одна, в своём слое, рядом с целью (не поверх), цель в зелёной рамке.
-17. **Уведомления** — тост сверху по центру под шапкой, по одному; не закрывает строку «‹» вложенного экрана и подсказку обучения с её целью: боком уходит в свободную середину шапки, иначе — ниже них.
+17. **Уведомления** — тост сверху по центру под шапкой, по одному; не закрывает строку «‹» вложенного экрана, подсказку обучения с её целью и полку «Витрина» в комнате: уходит в свободную середину шапки, если она там помещается (боком, ПК), иначе — ниже них.
 18. **Один отклик** на тип события, одно место.
 19. **Надписи в мире** читаются или скрыты; один объект — одна подпись.
 20. **Две раскладки, не масштаб:** портрет и альбом по своим макетам.

diff --git a/docs/mockups/README.md b/docs/mockups/README.md
@@ -13,7 +13,7 @@ PNG сняты со страницы макетов штаба. Портрет: 
 | s4-inventory.png | «Склад · Питомцы» | сегменты под шапкой; карточки 2 в ряд: картинка, имя, «редкость · ур. · цена», тёмная «На продажу» |
 | s4-finds.png | «Склад · Находки» | тот же каркас; готовая находка — рамка и зелёная «Забрать», награда строкой меты («награда ◉ 25») |
 | s5-gifts.png | «Подарки» | строка «Подарки ✕»; «Загляни в группу» (награда за визит, без слова «подпишись») и за отзыв; 7 дней (2 ряда, день 7 на 2 ячейки, сегодня заливкой); зелёная «Забрать подарок дня»; аномалия дня; цели дня с полосами прогресса |
-| s6-hatch-result.png | окно «Вылупился!» (VIP) | карточка по центру с рамкой редкости: питомец, слово редкости цветом редкости над именем, имя, цена и шанс, главная «На витрину», «На склад», приглушённая текстовая «Продать сразу» через 14 px |
+| s6-hatch-result.png | окно «Вылупился!» (VIP) | карточка по центру с рамкой редкости: питомец, слово редкости цветом редкости над именем, имя, цена и шанс, главная «На витрину», «На склад», приглушённая текстовая «Продать сразу» через 24 px |
 | r0-rarity-ladder.png | шкала редкости | шесть карточек и шесть колец: обычный · хороший · ценный · премиум (свечение) · VIP (блик) · эксклюзив (пульс) |
 | r1-hatch-exclusive.png | окно «Вылупился!» (эксклюзив) | красная рамка, свечение, тон подложки, пульс |
 | r2-hatch-common.png | окно «Вылупился!» (обычный) | ободок 1 px, серое слово редкости — как чаще всего |
